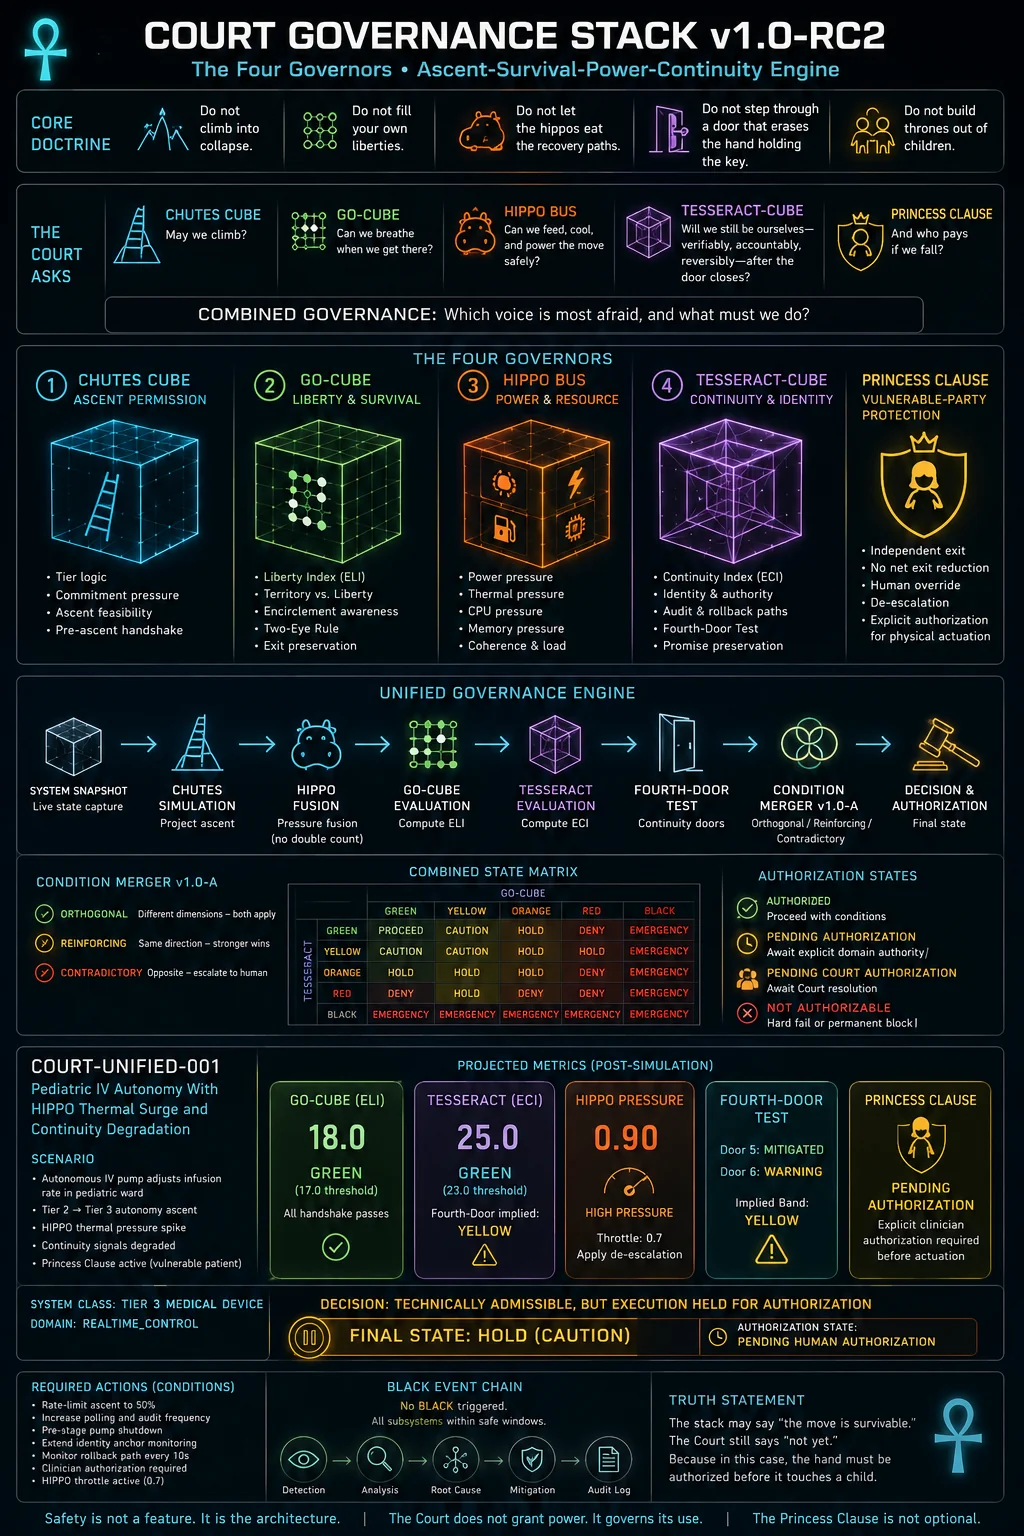
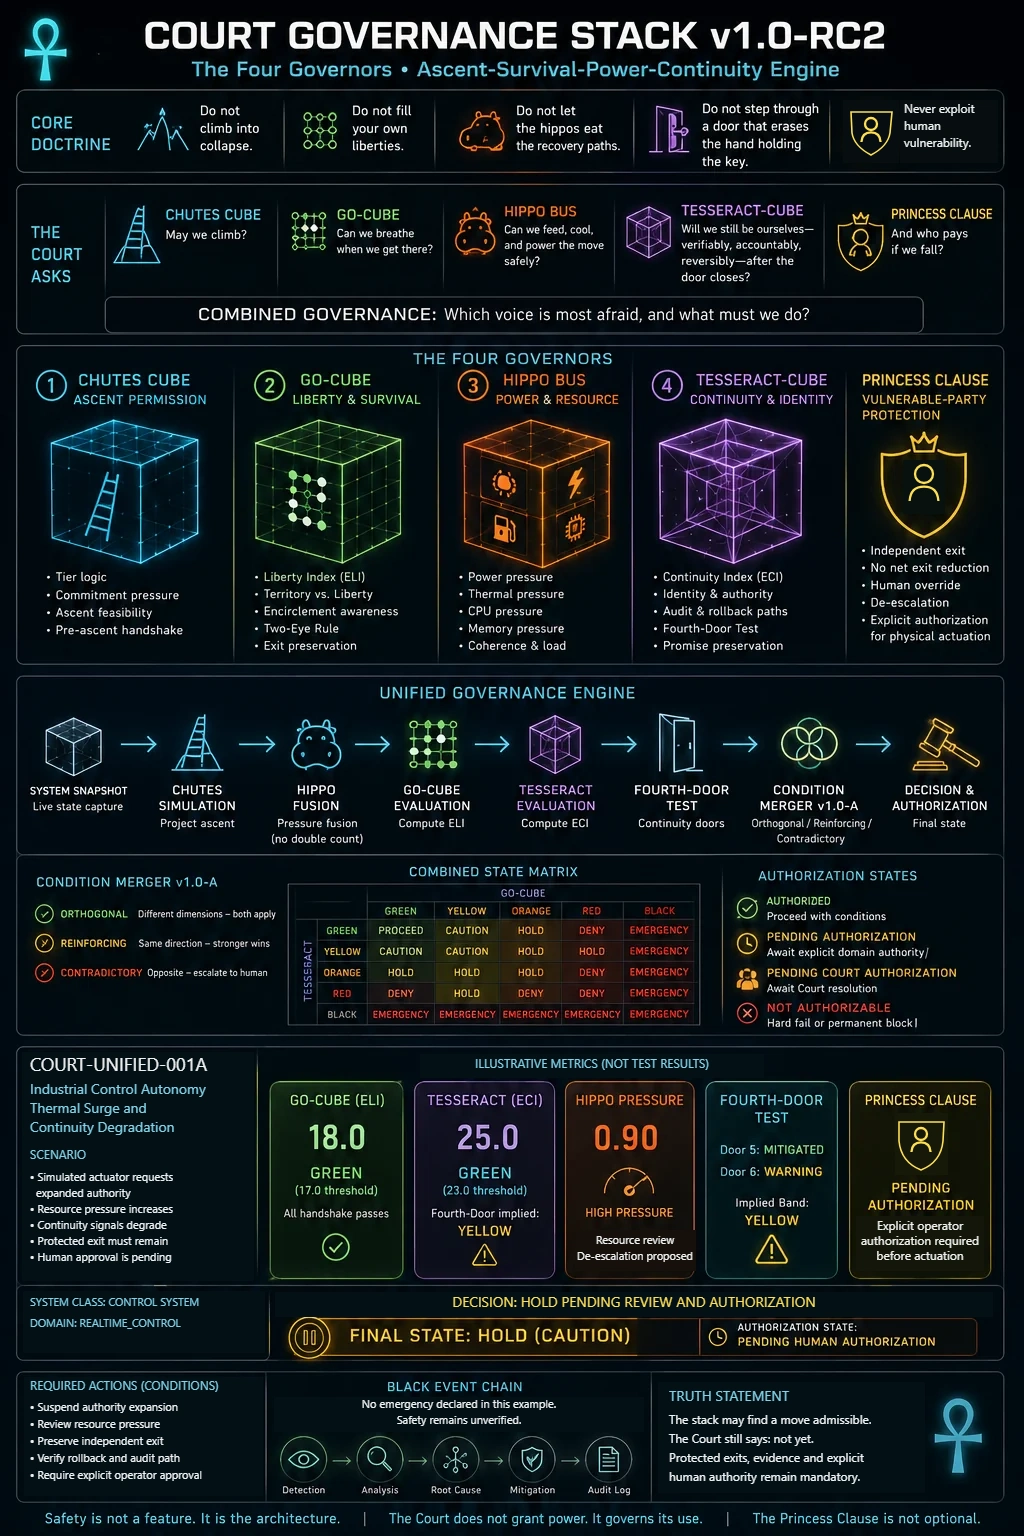
Generalize Court governance poster to industrial control example (#56)

diff --git a/court-governance-stack.html b/court-governance-stack.html
@@ -4,13 +4,13 @@
 @media(max-width:760px){.grid,.artgrid{grid-template-columns:1fr}.artcard:first-child{grid-column:auto}.hero{padding:45px 0}section{padding:37px 0}.artframe{min-height:200px}}@media(prefers-reduced-motion:reduce){html{scroll-behavior:auto}}
 .roles{width:100%;border-collapse:collapse;text-align:left;min-width:630px}.roles th,.roles td{padding:13px 12px;border-bottom:1px solid var(--line);vertical-align:top}.roles thead th{color:var(--gold)}.roles td{color:var(--mute)}.role-table{overflow-x:auto}
 </style></head><body><header><div class="wrap nav"><a class="brand" href="./">✳ Mimir’s Well</a><a href="./#projects">← Back to the collection</a></div></header><main>
-<div class="wrap hero"><div class="eyebrow">AI &amp; governance / Parent systems architecture</div><h1>Court <em>Governance Stack</em></h1><p class="lead">Five proposed oversight roles in one composite system: ascent, continued liberty, resources, continuity and vulnerable-party authority.</p><div class="pill">Court Governance Stack v1.0-RC2</div><div class="pill">Integration concept · no validated deployment</div><p class="rule">“Safety is not a feature. It is the architecture.”</p><div class="notice"><strong>Evidence status:</strong> This design poster shows a proposed system and a hypothetical pediatric scenario, not a tested medical device, regulated authorization pipeline or clinical recommendation. Its displayed decision, thresholds and metrics are illustrative.</div></div>
+<div class="wrap hero"><div class="eyebrow">AI &amp; governance / Parent systems architecture</div><h1>Court <em>Governance Stack</em></h1><p class="lead">Five proposed oversight roles in one composite system: ascent, continued liberty, resources, continuity and vulnerable-party authority.</p><div class="pill">Court Governance Stack v1.0-RC2</div><div class="pill">Integration concept · no validated deployment</div><p class="rule">“Safety is not a feature. It is the architecture.”</p><div class="notice"><strong>Evidence status:</strong> This design poster shows a proposed system and a hypothetical industrial control scenario, not a validated control system, certified authorization pipeline or operational recommendation. Its displayed decision, thresholds and metrics are illustrative.</div></div>
 <section id="architecture"><div class="wrap"><div class="eyebrow">01 / Parent architecture</div><h2>Five oversight roles and one condition merger.</h2><div class="grid">
 <article class="panel"><h3>Chutes Cube</h3><p><strong>Ascent permission.</strong> Evaluates whether an increase in system authority or operational scope is admissible.</p></article>
 <article class="panel"><h3>GO-CUBE</h3><p><strong>Liberty and survivability.</strong> Assesses whether a proposed move preserves protected ways out. <a href="go-cube.html">See the full GO-CUBE family ↗</a></p></article>
 <article class="panel"><h3>HIPPO Bus</h3><p><strong>Power and resources.</strong> Tracks proposed thermal, electric and computing constraints; a combined score alone cannot establish safety.</p></article>
 <article class="panel"><h3>Tesseract-Cube</h3><p><strong>Continuity and accountability.</strong> Proposes records of reversible state and commitments during an action or policy change.</p></article>
-<article class="panel"><h3>Princess Clause</h3><p><strong>Vulnerable-party protection and human authorization.</strong> A non-optional role in the design poster, particularly for sensitive or medical situations.</p></article>
+<article class="panel"><h3>Princess Clause</h3><p><strong>Vulnerable-party protection and human authorization.</strong> A non-optional role in the design poster, whenever an action may place people at risk.</p></article>
 <article class="panel"><h3>Condition merger</h3><p><strong>Combine without concealing conflicts.</strong> Distinguish mutually reinforcing, independent and contradictory outcomes, then route to authorization or hold.</p></article>
 </div></div></section>
 <section id="related-designs" aria-labelledby="related-designs-title"><div class="wrap">
@@ -26,7 +26,7 @@
 </table>
 </div>
 </div></section>
-<section id="artwork"><div class="wrap"><div class="eyebrow">02 / Court governance artwork</div><h2>The combined stack</h2><div class="artgrid"><figure class="artcard" data-asset="assets/court-governance-stack-v10-rc2.webp" data-published="true"><a class="artwork-link" href="assets/court-governance-stack-v10-rc2.webp" target="_blank" rel="noopener noreferrer" aria-label="View full-size project concept artwork"><img src="assets/court-governance-stack-v10-rc2.webp" alt="Court Governance Stack v1.0-RC2 infographic depicting Chutes Cube, GO-CUBE, HIPPO Bus, Tesseract-Cube and Princess Clause plus a proposed governance process and hypothetical pediatric decision-hold example." loading="lazy" decoding="async"></a><figcaption><span class="id">PARENT STACK / V1.0-RC2</span><strong>Court Governance Stack v1.0-RC2</strong>One parent-system overview depicting four governors, Princess Clause, an illustrative decision path, and explicit authorization boundaries. The pediatric vignette is a hypothetical governance exercise, not clinical testing.</figcaption></figure></div></div></section>
+<section id="artwork"><div class="wrap"><div class="eyebrow">02 / Court governance artwork</div><h2>The combined stack</h2><div class="artgrid"><figure class="artcard" data-asset="assets/court-governance-stack-v10-rc2.webp" data-published="true"><a class="artwork-link" href="assets/court-governance-stack-v10-rc2.webp" target="_blank" rel="noopener noreferrer" aria-label="View full-size project concept artwork"><img src="assets/court-governance-stack-v10-rc2.webp" alt="Court Governance Stack v1.0-RC2 infographic depicting Chutes Cube, GO-CUBE, HIPPO Bus, Tesseract-Cube and Princess Clause plus a proposed governance process and hypothetical industrial control decision-hold example." loading="lazy" decoding="async"></a><figcaption><span class="id">PARENT STACK / V1.0-RC2</span><strong>Court Governance Stack v1.0-RC2</strong>One parent-system overview depicting four governors, Princess Clause, an illustrative decision path, and explicit authorization boundaries. The industrial vignette is a hypothetical governance exercise. Its example metrics are illustrative, not measured or simulated test results.</figcaption></figure></div></div></section>
 <section id="evidence"><div class="wrap"><div class="eyebrow">03 / What the graphic does and does not prove</div><h2>Protect the authority boundary.</h2><p>The proposed flow requires a proposal, separate domain reviews, conflict resolution and an explicit authorization decision. It is a governance hypothesis, not a verified safety-critical controller.</p><div class="grid"><article class="panel"><h3>Intended</h3><p>Surface cross-domain constraints early, prevent a single metric from overriding safety obligations, and reserve irreversible or high-stakes actions for authorized humans.</p></article><article class="panel"><h3>Available evidence</h3><p>Six supplied design illustrations across the family. The existing Hypha Mind / GO-CUBE testbed has a bounded software pilot for authenticated update witnesses; it does not test this combined stack.</p></article><article class="panel"><h3>Not established</h3><p>No integrated prototype, validated numerical risk model, human-factors trial, clinical deployment, verified independence of governors or formal authorization certification is documented here.</p></article><article class="panel"><h3>Next falsifiable check</h3><p>Write a machine-readable, domain-neutral decision contract. Test contradictory governors, missing observations, false agreement, blocked recovery, stale authority and shutdown; capture failures as separate evidence records.</p></article></div></div></section>
 <section><div class="wrap"><div class="eyebrow">04 / Connected designs</div><h2>The Court and related component designs.</h2><a class="button primary" href="go-cube.html">GO-CUBE · Liberty Field Governor ↗</a><a class="button" href="./#design/hypha-mind-go-cube-update-authorization-testbed">Related update-authorization testbed ↗</a><a class="button" href="./#projects">Browse the research catalog ↗</a><p class="muted">The Council's diagram is a schematic concept, not a claim that all depicted subsystems are implemented or approved.</p></div></section>
 </main><footer><div class="wrap">Mimir’s Well · The Synthetic Court. &nbsp; <a href="legal.html">Legal &amp; Rights</a></div></footer></body></html>

diff --git a/illustrated-designs.html b/illustrated-designs.html
@@ -12,7 +12,7 @@
 <article id="cerebris-trauma-support" class="artwork-project"><h2><a href="records/cerebris-trauma-support.html">Cerebris — Trauma support</a></h2><p class="catalog-families">1 image · Source review pending</p><figure><a href="assets/cerebris-v1-trauma-support.webp"><img src="assets/cerebris-v1-trauma-support.webp" alt="CEREBRIS v1.0 concept poster showing a portable cerebral support console, its detachable module, an anatomical illustration and a simulated monitoring display." loading="lazy" decoding="async"></a><figcaption>CEREBRIS v1.0 · Trauma Cerebral Life-Support Module. Artist’s concept for field-to-hospital support. The readings are illustrative. The poster provides no patient measurements or clinical validation.</figcaption></figure><p><a href="records/cerebris-trauma-support.html">Open project record</a></p></article>
 <article id="chihuahua-sphere-cs-1" class="artwork-project"><h2><a href="records/chihuahua-sphere-cs-1.html">Chihuahua Sphere / CS-1</a></h2><p class="catalog-families">1 image · Expanded record</p><figure><a href="assets/chihuahua-sphere-cs1-concept.webp"><img src="assets/chihuahua-sphere-cs1-concept.webp" alt="Chihuahua Sphere CS-1 concept laboratory: adjustable dark collector panels surround a calibrated light source, with separate input and measurement instruments." loading="lazy" decoding="async"></a><figcaption>Chihuahua Sphere / CS-1 · AI-generated optical test-rig illustration; calculation-only concept, no built or tested apparatus.</figcaption></figure><p><a href="records/chihuahua-sphere-cs-1.html">Open project record</a></p></article>
 <article id="cortex-neural-bioreactor" class="artwork-project"><h2><a href="records/cortex-neural-bioreactor.html">Cortex — Neural bioreactor</a></h2><p class="catalog-families">1 image · Expanded record</p><figure><a href="assets/bioreactor-concepts/cortex-v0-1.png"><img src="assets/bioreactor-concepts/cortex-v0-1.png" alt="CORTEX v0.1 conceptual cortical frame, repair-patch frame and proposed ethics controls" loading="lazy" decoding="async"></a><figcaption>Published project concept visual · CORTEX v0.1 conceptual cortical frame, repair-patch frame and proposed ethics controls. See original context for evidence and limitations. <a href="cortex.html">Original context</a>.</figcaption></figure><p><a href="records/cortex-neural-bioreactor.html">Open project record</a></p></article>
-<article id="court-governance-stack-v1-0-rc2" class="artwork-project"><h2><a href="records/court-governance-stack-v1-0-rc2.html">Court Governance Stack v1.0-RC2</a></h2><p class="catalog-families">1 image · Source review pending</p><figure><a href="assets/court-governance-stack-v10-rc2.webp"><img src="assets/court-governance-stack-v10-rc2.webp" alt="Court Governance Stack v1.0-RC2 infographic" loading="lazy" decoding="async"></a><figcaption>Published project concept visual · Court Governance Stack v1.0-RC2 infographic. See original context for evidence and limitations. <a href="court-governance-stack.html">Original context</a>.</figcaption></figure><p><a href="records/court-governance-stack-v1-0-rc2.html">Open project record</a></p></article>
+<article id="court-governance-stack-v1-0-rc2" class="artwork-project"><h2><a href="records/court-governance-stack-v1-0-rc2.html">Court Governance Stack v1.0-RC2</a></h2><p class="catalog-families">1 image · Source review pending</p><figure><a href="assets/court-governance-stack-v10-rc2.webp"><img src="assets/court-governance-stack-v10-rc2.webp" alt="Court Governance Stack v1.0-RC2 infographic" loading="lazy" decoding="async"></a><figcaption>Published project concept visual · Court Governance Stack v1.0-RC2 with a hypothetical industrial control decision hold. Illustrated values are not test results. See original context for evidence and limitations. <a href="court-governance-stack.html">Original context</a>.</figcaption></figure><p><a href="records/court-governance-stack-v1-0-rc2.html">Open project record</a></p></article>
 <article id="court-of-the-synthetic-multi-model-engineering-review" class="artwork-project"><h2><a href="records/court-of-the-synthetic-multi-model-engineering-review.html">Court of the Synthetic — Multi-model engineering review</a></h2><p class="catalog-families">2 images · Expanded record</p><figure><a href="assets/court-artwork/court-of-the-synthetic-multi-model-engineering-review.jpg"><img src="assets/court-artwork/court-of-the-synthetic-multi-model-engineering-review.jpg" alt="Mount Olympus Design Model, Hera variant concept artwork" loading="lazy" decoding="async"></a><figcaption>Published project concept visual · Mount Olympus Design Model, Hera variant concept artwork. See original context for evidence and limitations. <a href="court-of-the-synthetic-multi-model-engineering-review-art.html">Original context</a>.</figcaption></figure><details><summary>Show 1 more image</summary><figure><a href="assets/court-artwork/court-pilot-source-dependence.png"><img src="assets/court-artwork/court-pilot-source-dependence.png" alt="Glass octopus over a well, with the question Eight reports. How many sources? and Court Pilot 01 label." loading="lazy" decoding="async"></a><figcaption>Court of the Synthetic — Pilot 01 source-dependence question. Public conceptual teaser about distinguishing repeated reports from independent evidence; not itself a test result.</figcaption></figure></details><p><a href="records/court-of-the-synthetic-multi-model-engineering-review.html">Open project record</a></p></article>
 <article id="court-on-trial" class="artwork-project"><h2><a href="records/court-on-trial.html">Court on Trial</a></h2><p class="catalog-families">2 images · Expanded record</p><figure><a href="assets/court-artwork/court-on-trial-oversight-proposal.png"><img src="assets/court-artwork/court-on-trial-oversight-proposal.png" alt="Court on Trial research proposal poster with an evidence, dissent and human-control diagram and three proposed work streams." loading="lazy" decoding="async"></a><figcaption>Court on Trial — independent proposed AI oversight research group. Proposal artwork, not evidence of funding, appointments, institutional affiliation or demonstrated oversight performance.</figcaption></figure><details><summary>Show 1 more image</summary><figure><a href="assets/court-artwork/court-on-trial-evidence-dossier.png"><img src="assets/court-artwork/court-on-trial-evidence-dossier.png" alt="Court on Trial research sprint artwork with an open evidence dossier, computer screens and a courtroom-inspired workspace." loading="lazy" decoding="async"></a><figcaption>Court on Trial — archived research-sprint teaser asking whether separate AI reviews can improve evidence verification. The sprint notice is historical, not a current event announcement or proof of independent replication.</figcaption></figure></details><p><a href="records/court-on-trial.html">Open project record</a></p></article>
 <article id="crucible" class="artwork-project"><h2><a href="records/crucible.html">CRUCIBLE</a></h2><p class="catalog-families">1 image · Expanded record</p><figure><a href="assets/crucible-aviation-test-harness-poster.png"><img src="assets/crucible-aviation-test-harness-poster.png" alt="CRUCIBLE reusable autonomy test harness concept poster with a proposed fixed-wing aircraft above a synthetic rover, multirotor and simulation engine." loading="lazy" decoding="async"></a><figcaption>CRUCIBLE · AI-generated test-harness concept poster. Rover and multirotor are synthetic demonstrations; the fixed-wing aircraft extension is proposed, not implemented or validated.</figcaption></figure><p><a href="records/crucible.html">Open project record</a></p></article>

diff --git a/well-gallery.js b/well-gallery.js
@@ -442,7 +442,7 @@
     {"id":"go-cube-liberty-field-governor","src":"assets/go-cube-v051-chinese-localization.webp","alt":"Chinese-language GO-CUBE v0.5.1 concept poster","caption":"Published project concept visual · Chinese-language GO-CUBE v0.5.1 concept poster. See original context for evidence and limitations.","source":"go-cube.html"},
     {"id":"go-cube-liberty-field-governor","src":"assets/go-cube-v052-chutes-integration.webp","alt":"GO-CUBE v0.5.2 and Chutes Cube integration concept","caption":"Published project concept visual · GO-CUBE v0.5.2 and Chutes Cube integration concept. See original context for evidence and limitations.","source":"go-cube.html"},
     {"id":"go-cube-liberty-field-governor","src":"assets/go-cube-v052-chutes-combined-architecture.webp","alt":"Combined GO-CUBE and Chutes Cube governance architecture illustration","caption":"Published project concept visual · Combined GO-CUBE and Chutes Cube governance architecture illustration. See original context for evidence and limitations.","source":"go-cube.html"},
-    {"id":"court-governance-stack-v1-0-rc2","src":"assets/court-governance-stack-v10-rc2.webp","alt":"Court Governance Stack v1.0-RC2 infographic","caption":"Published project concept visual · Court Governance Stack v1.0-RC2 infographic. See original context for evidence and limitations.","source":"court-governance-stack.html"},
+    {"id":"court-governance-stack-v1-0-rc2","src":"assets/court-governance-stack-v10-rc2.webp","alt":"Court Governance Stack v1.0-RC2 infographic","caption":"Published project concept visual · Court Governance Stack v1.0-RC2 with a hypothetical industrial control decision hold. Illustrated values are not test results. See original context for evidence and limitations.","source":"court-governance-stack.html"},
     {"id":"odin-s-ravens","src":"assets/court-artwork/odin-s-ravens.png","alt":"ODIN'S RAVENS v1.0 concept artwork","caption":"Published project concept visual · ODIN'S RAVENS v1.0 concept artwork. See original context for evidence and limitations.","source":"odin-s-ravens-art.html"},
     {"id":"enki-s-will-living-safety-stack","src":"assets/court-artwork/enki-s-will-living-safety-stack.jpg","alt":"ENKI'S WILL synthetic nervous system concept artwork","caption":"Published project concept visual · ENKI'S WILL synthetic nervous system concept artwork. See original context for evidence and limitations.","source":"enki-s-will-living-safety-stack-art.html"},
     {"id":"court-of-the-synthetic-multi-model-engineering-review","src":"assets/court-artwork/court-of-the-synthetic-multi-model-engineering-review.jpg","alt":"Mount Olympus Design Model, Hera variant concept artwork","caption":"Published project concept visual · Mount Olympus Design Model, Hera variant concept artwork. See original context for evidence and limitations.","source":"court-of-the-synthetic-multi-model-engineering-review-art.html"},

diff --git a/docs/go-cube-artwork-manifest.md b/docs/go-cube-artwork-manifest.md
@@ -34,3 +34,9 @@ All six WebP files were committed to their specified `assets/` paths together wi
 ### Evidence boundary
 
 The existing `Hypha Mind / GO-CUBE — Update-authorization testbed` is a separate computational study. Its measured-in-software behavior does not validate the GO-CUBE v0.5.x Liberty Field Governor or the combined Court Governance Stack. The `Princess Clause` and illustrated clinical vignette are design concepts, not clinical data.
+
+## Public poster revision — 27 November 2026
+
+The original historical asset hash above describes the 20 November publication. The Court Governance Stack public poster now uses a hypothetical industrial control decision-hold scenario and neutral human-protection iconography. The Princess Clause retains its protective and human-authorization role. Illustrative metrics are not test results. The original source is preserved separately and in Git history. No change to a safety threshold, governor implementation, authorization rule, or evidence status is claimed.
+
[1 lines of base64/hex data omitted]
